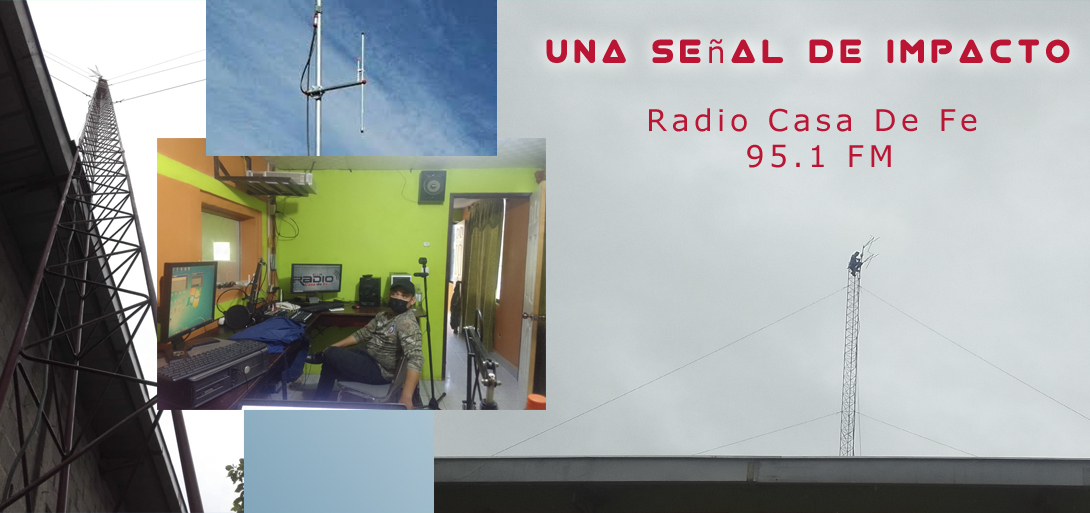
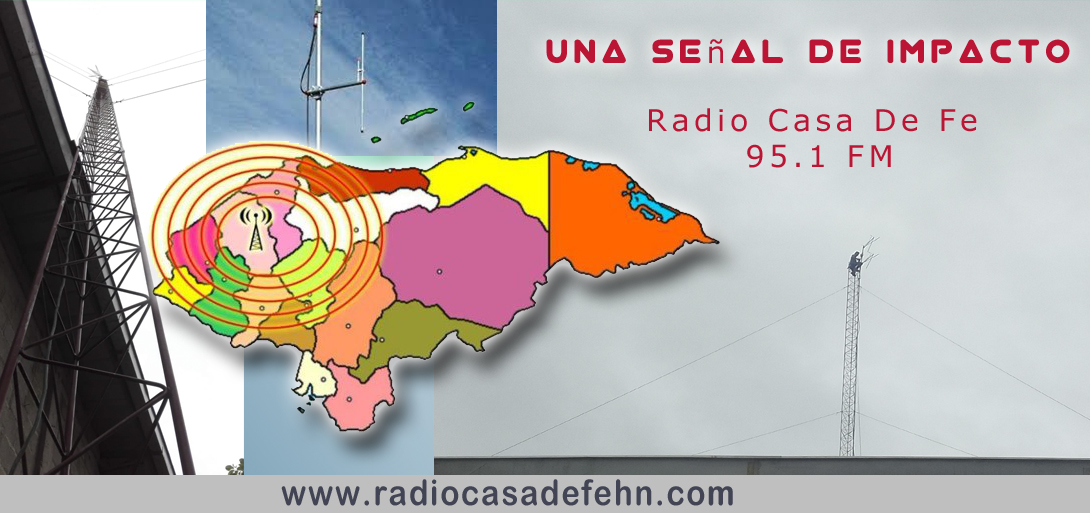
hh

Changed region(s): [[0.0, 0.1871, 1.0, 1.0]]

diff --git a/perfil_radial.html b/perfil_radial.html
@@ -152,7 +152,7 @@ function MM_swapImage() { //v3.0
           <td height="41" colspan="3" valign="top" bgcolor="#003366"><div align="center" class="Estilo63">PERFIL RADIAL </div></td>
           </tr>
         <tr>
-          <td height="755" colspan="3" valign="top" bgcolor="#669999"><div align="center"><img src="img/perfil_tecnico RD Flecha.jpg" width="812" height="755" /></div></td>
+          <td height="755" colspan="3" valign="top" bgcolor="#669999"><div align="center"><img src="img/capture_coberturamap.jpg" width="853" height="822" /></div></td>
           </tr>
         <tr>
           <td height="29" colspan="3" valign="top" bgcolor="#990000"><div align="center" class="Estilo74">UNA RADIO QUE VIENE DE LO ALTO CON PROGRAMACION CRISTIANA </div></td>
